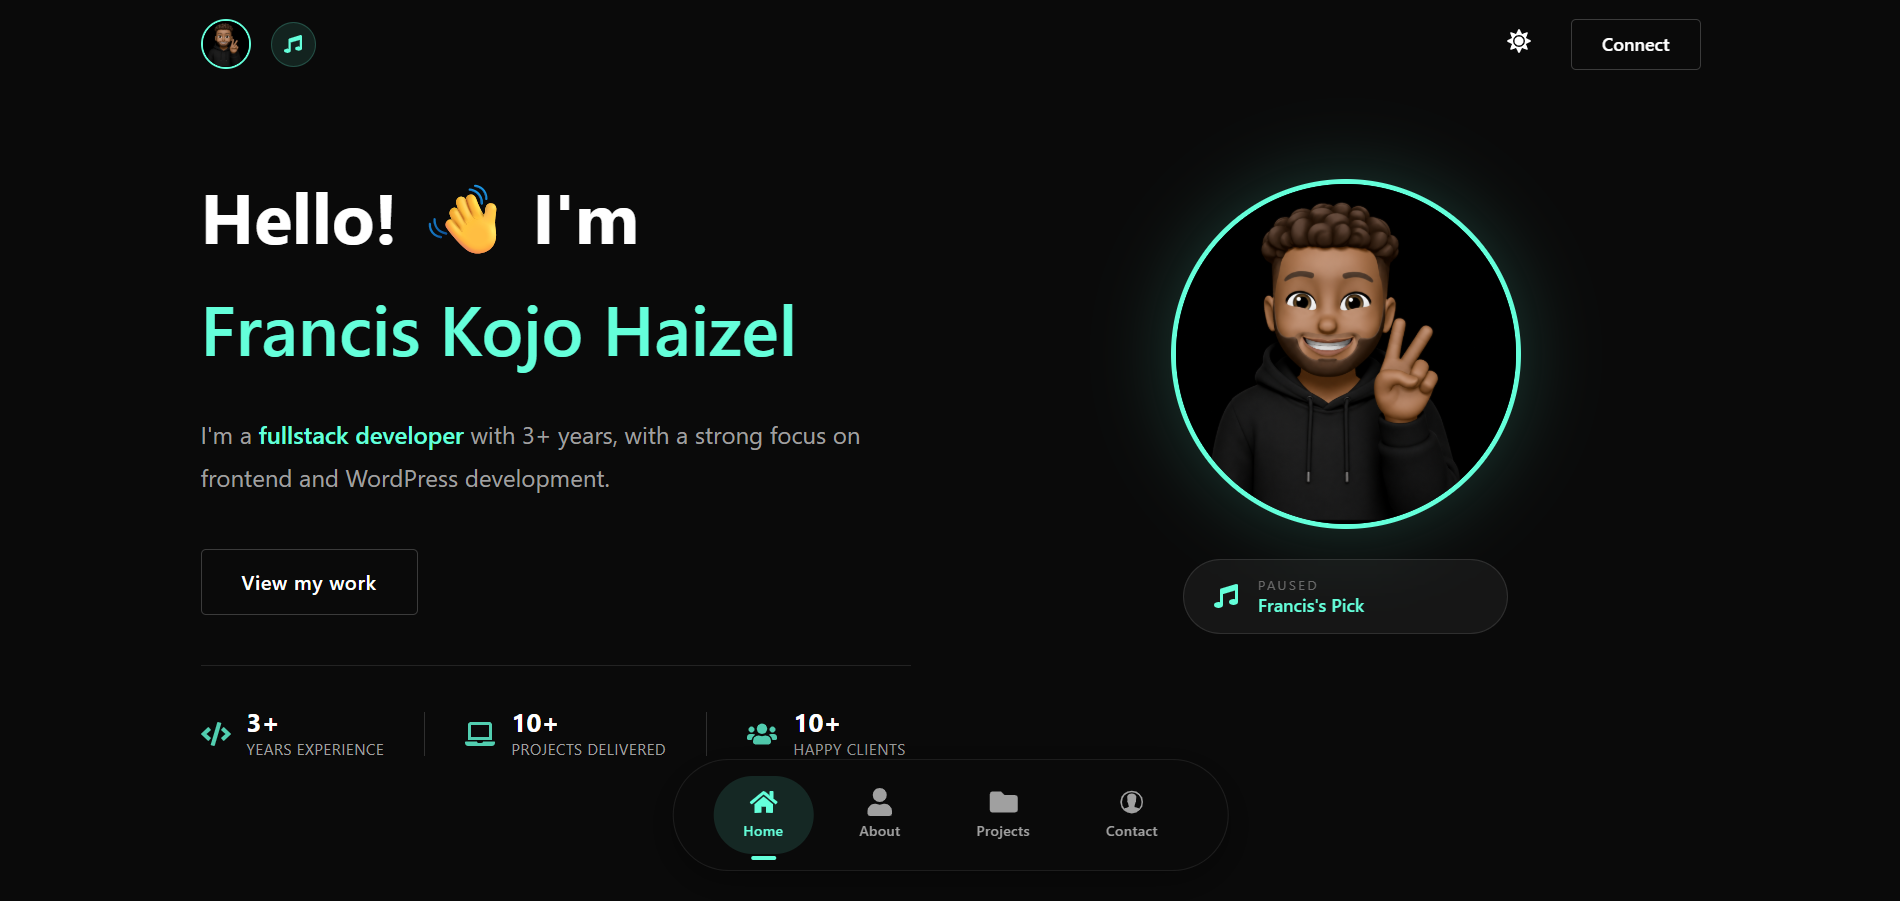
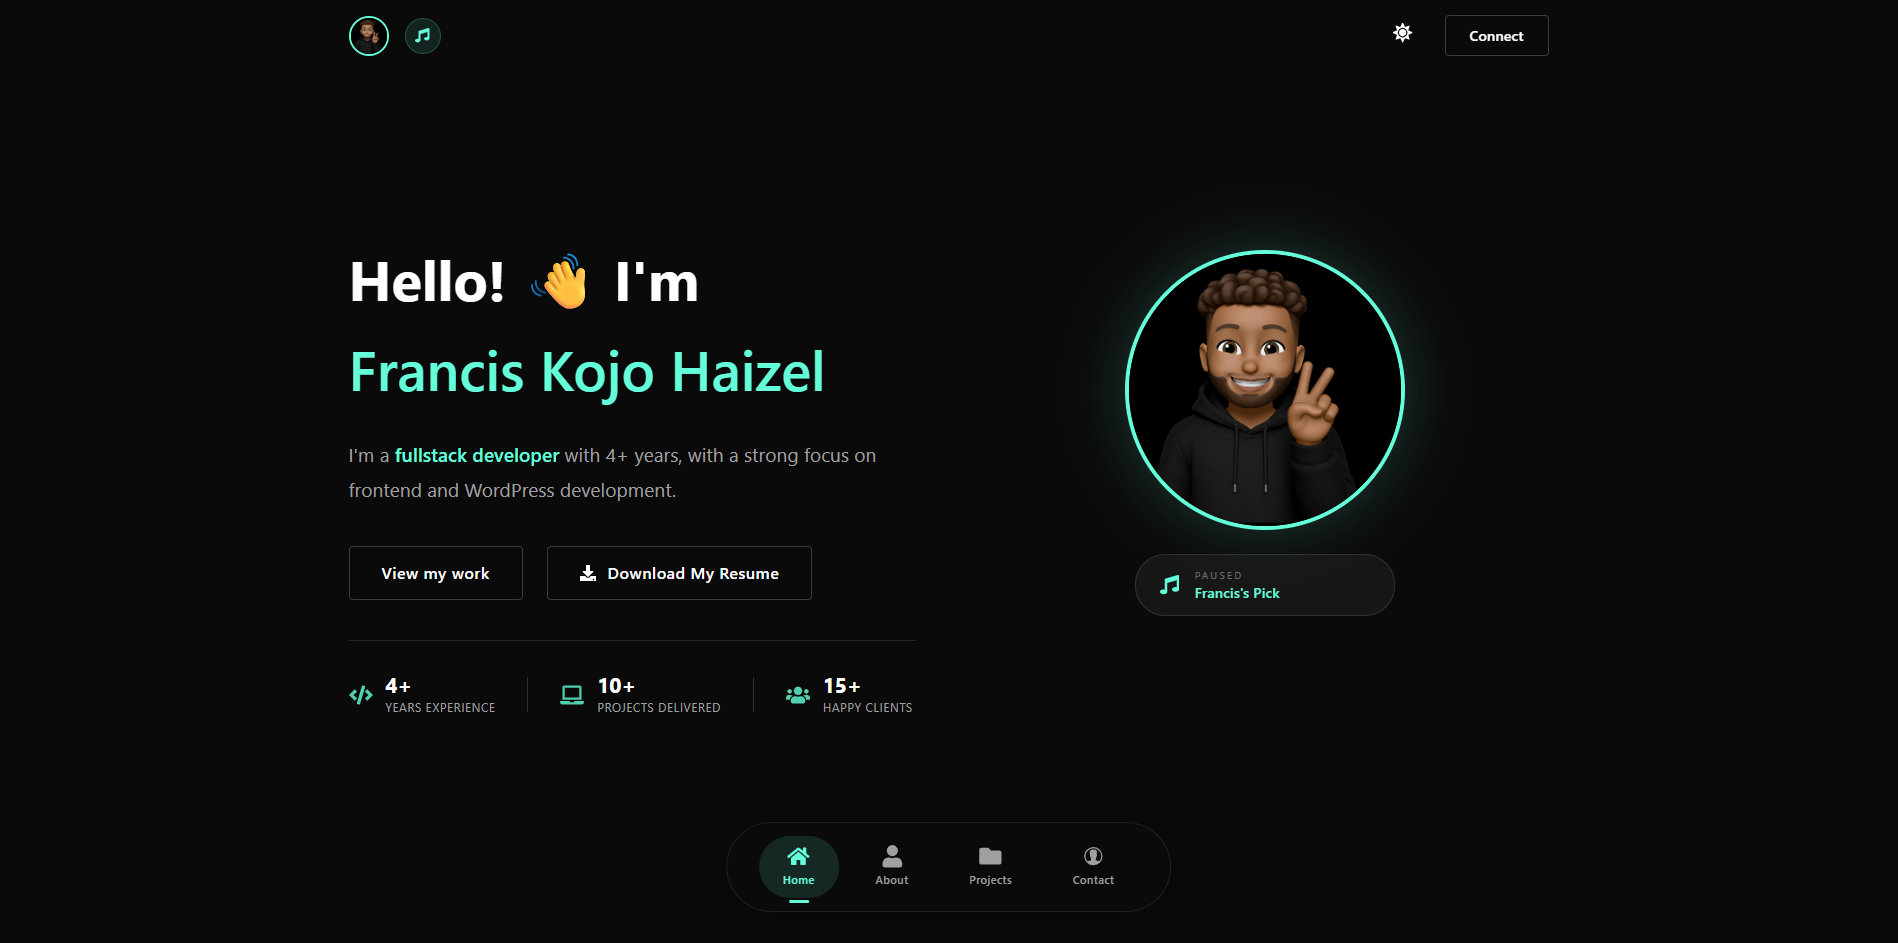
Did some changes in the files

diff --git a/src/components/Hero.jsx b/src/components/Hero.jsx
@@ -19,7 +19,7 @@ const Hero = ({ darkMode, isPlaying, toggleMusic }) => {
             </h1>
             
             <p className="hero-subtitle">
-              I'm a <span className="highlight-text">fullstack developer</span> with 3+ years, with a strong focus on frontend and WordPress development.
+              I'm a <span className="highlight-text">fullstack developer</span> with 4+ years, with a strong focus on frontend and WordPress development.
             </p>
 
             {/* Button Container - Flex row with proper spacing */}
@@ -45,7 +45,7 @@ const Hero = ({ darkMode, isPlaying, toggleMusic }) => {
               <div className="hero-stat">
                 <FaCode className="hero-stat-icon" />
                 <div>
-                  <span className="hero-stat-number">3+</span>
+                  <span className="hero-stat-number">4+</span>
                   <span className="hero-stat-label">Years Experience</span>
                 </div>
               </div>

diff --git a/src/components/TechStack.jsx b/src/components/TechStack.jsx
@@ -13,8 +13,8 @@ import {
 import { 
   SiVite, 
   SiMongodb, 
-  SiExpress, 
-  SiNextdotjs, 
+  // SiExpress, 
+  // SiNextdotjs, 
   SiMysql,
   SiPhpmyadmin,
   SiVercel,
@@ -33,8 +33,8 @@ const TechStack = ({ darkMode }) => {
     { name: 'Vite', icon: <SiVite />, color: '#646CFF' },
     { name: 'MongoDB', icon: <SiMongodb />, color: '#47A248' },
     { name: 'Node.js', icon: <FaNodeJs />, color: '#68A063' },
-    { name: 'Express', icon: <SiExpress />, color: '#000000' },
-    { name: 'Next.js', icon: <SiNextdotjs />, color: '#000000' },
+    // { name: 'Express', icon: <SiExpress />, color: '#000000' },
+    // { name: 'Next.js', icon: <SiNextdotjs />, color: '#000000' },
     { name: 'HTML5', icon: <FaHtml5 />, color: '#E34F26' },
     { name: 'CSS3', icon: <FaCss3Alt />, color: '#1572B6' },
     { name: 'Tailwind CSS', icon: <SiTailwindcss />, color: '#06B6D4' },

diff --git a/src/components/MarqueeSlider.jsx b/src/components/MarqueeSlider.jsx
@@ -38,6 +38,7 @@ const MarqueeSlider = ({ darkMode }) => {
     { id: 6, image: '/projects/project6.png'},
     { id: 7, image: '/projects/project7.png'},
     { id: 8, image: '/projects/project8.png'},
+    { id: 8, image: '/projects/project9.png'},
   ];
 
   // Split projects into 3 columns for desktop, 2 for tablet, 1 for mobile
@@ -108,10 +109,10 @@ const MarqueeSlider = ({ darkMode }) => {
       <div className="marquee-container">
         {/* Section Header */}
         <div className="marquee-header">
-          <h2 className="section-title">Projects That Define Me</h2>
+          {/* <h2 className="section-title">Projects That Define Me</h2>
           <p className="section-subtitle">
             Each project represents a step in my journey — from concept to deployment
-          </p>
+          </p> */}
         </div>
 
         {/* Three Column Grid */}

diff --git a/src/components/FAQ.jsx b/src/components/FAQ.jsx
@@ -14,7 +14,7 @@ const FAQ = ({ darkMode }) => {
     {
       id: 1,
       question: 'What technologies do you specialize in?',
-      answer: 'I specialize in full-stack web development with a strong focus on React, Next.js, Node.js, and WordPress. I work with MongoDB, PhpMyAdmin, Dokploy, and MySQL databases, and have experience with Hostinger, Vercel, Netlify, and other cloud platforms. I also have expertise in PHP, JavaScript, and modern frontend frameworks like Tailwind CSS and Vite.'
+      answer: 'I specialize in full-stack web development with a strong focus on React, Node.js, and WordPress. I work with MongoDB, PhpMyAdmin, and MySQL databases, and have experience with Hostinger, Vercel, Netlify, and other cloud platforms. I also have expertise in PHP, JavaScript, and modern frontend frameworks like Tailwind CSS and Vite.'
     },
     {
       id: 2,

diff --git a/src/components/About.jsx b/src/components/About.jsx
@@ -76,7 +76,7 @@ const About = ({ darkMode }) => {
                 to build modern, high-performance websites that are both functional and visually engaging.
               </p>
               <p>
-                With over 3 years of experience, I've worked on a wide range of projects - from 
+                With over 4 years of experience, I've worked on a wide range of projects - from 
                 custom WordPress themes to complex web applications. My approach emphasizes clean code, 
                 performance optimization, and responsive design.
               </p>

diff --git a/src/components/Value.jsx b/src/components/Value.jsx
@@ -118,7 +118,7 @@ const Value = ({ darkMode }) => {
           animate={inView ? { opacity: 1, y: 0 } : {}}
           transition={{ duration: 0.6 }}
         >
-          <h2 className="section-title">Why Choose Me?</h2>
+          <h2 className="section-title">Why Work With Me?</h2>
           <p className="section-description">Passionate about creating impactful digital solutions.</p>
           
           <div className="value-grid">
